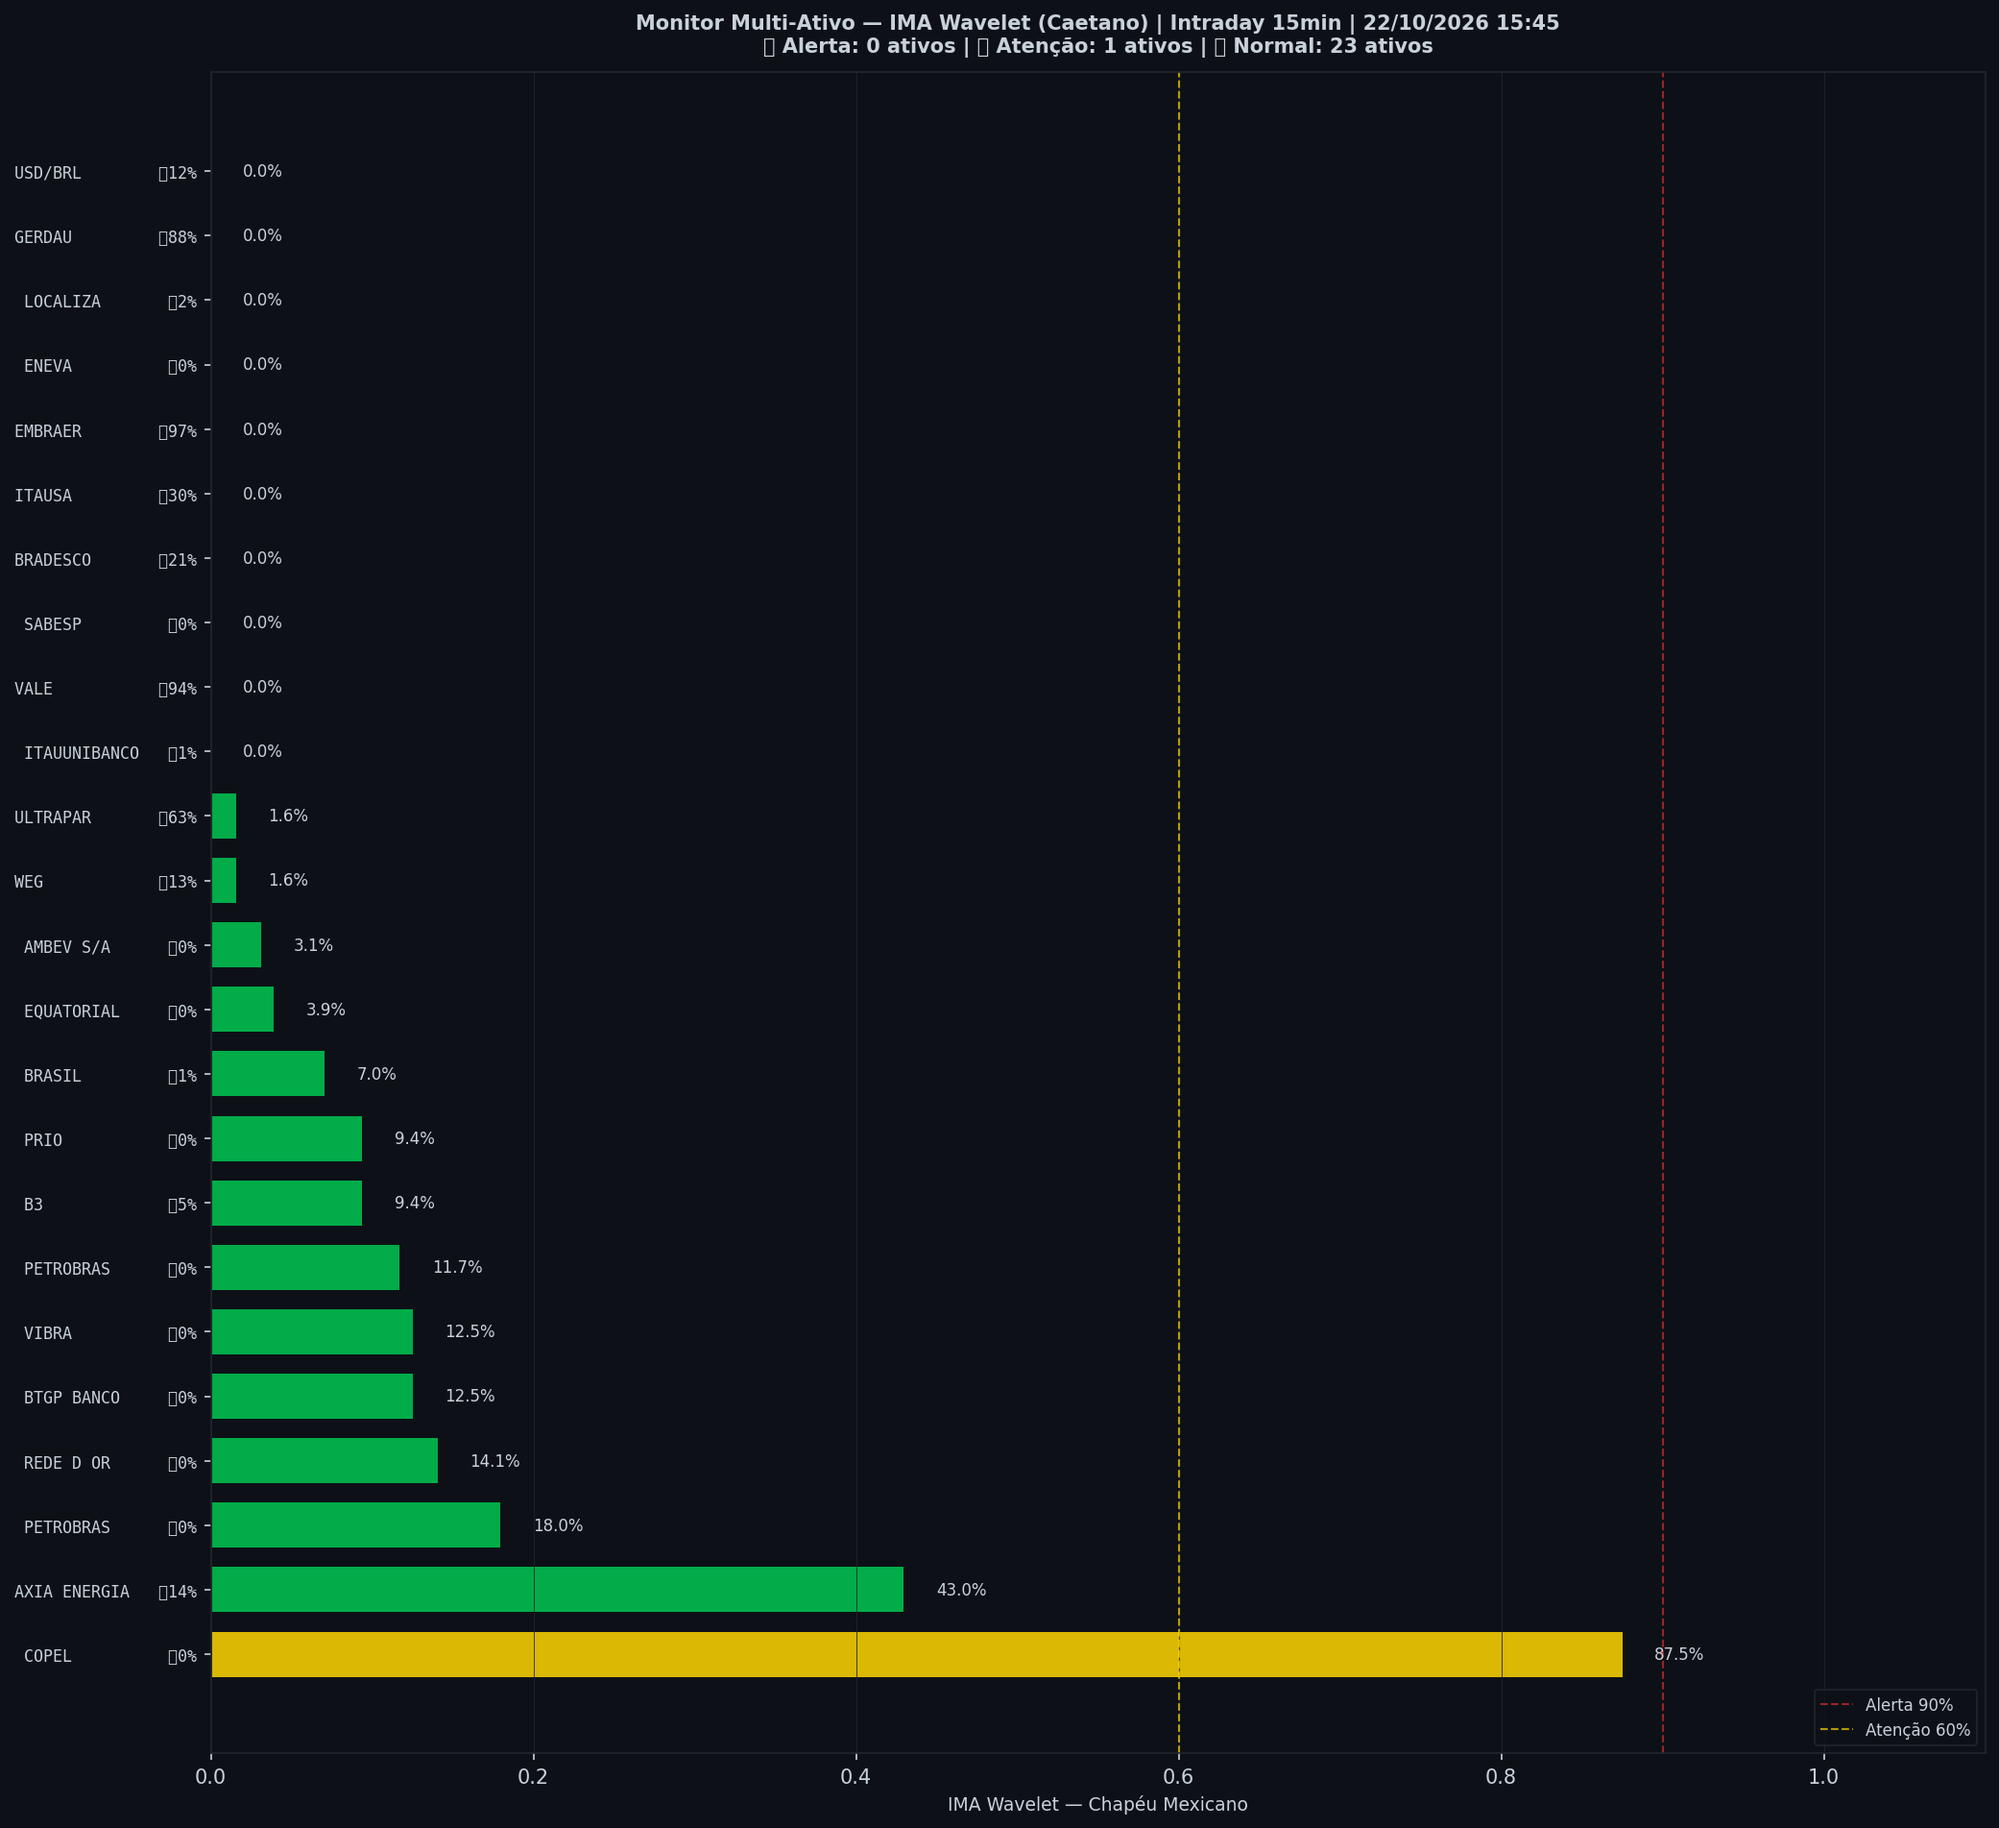
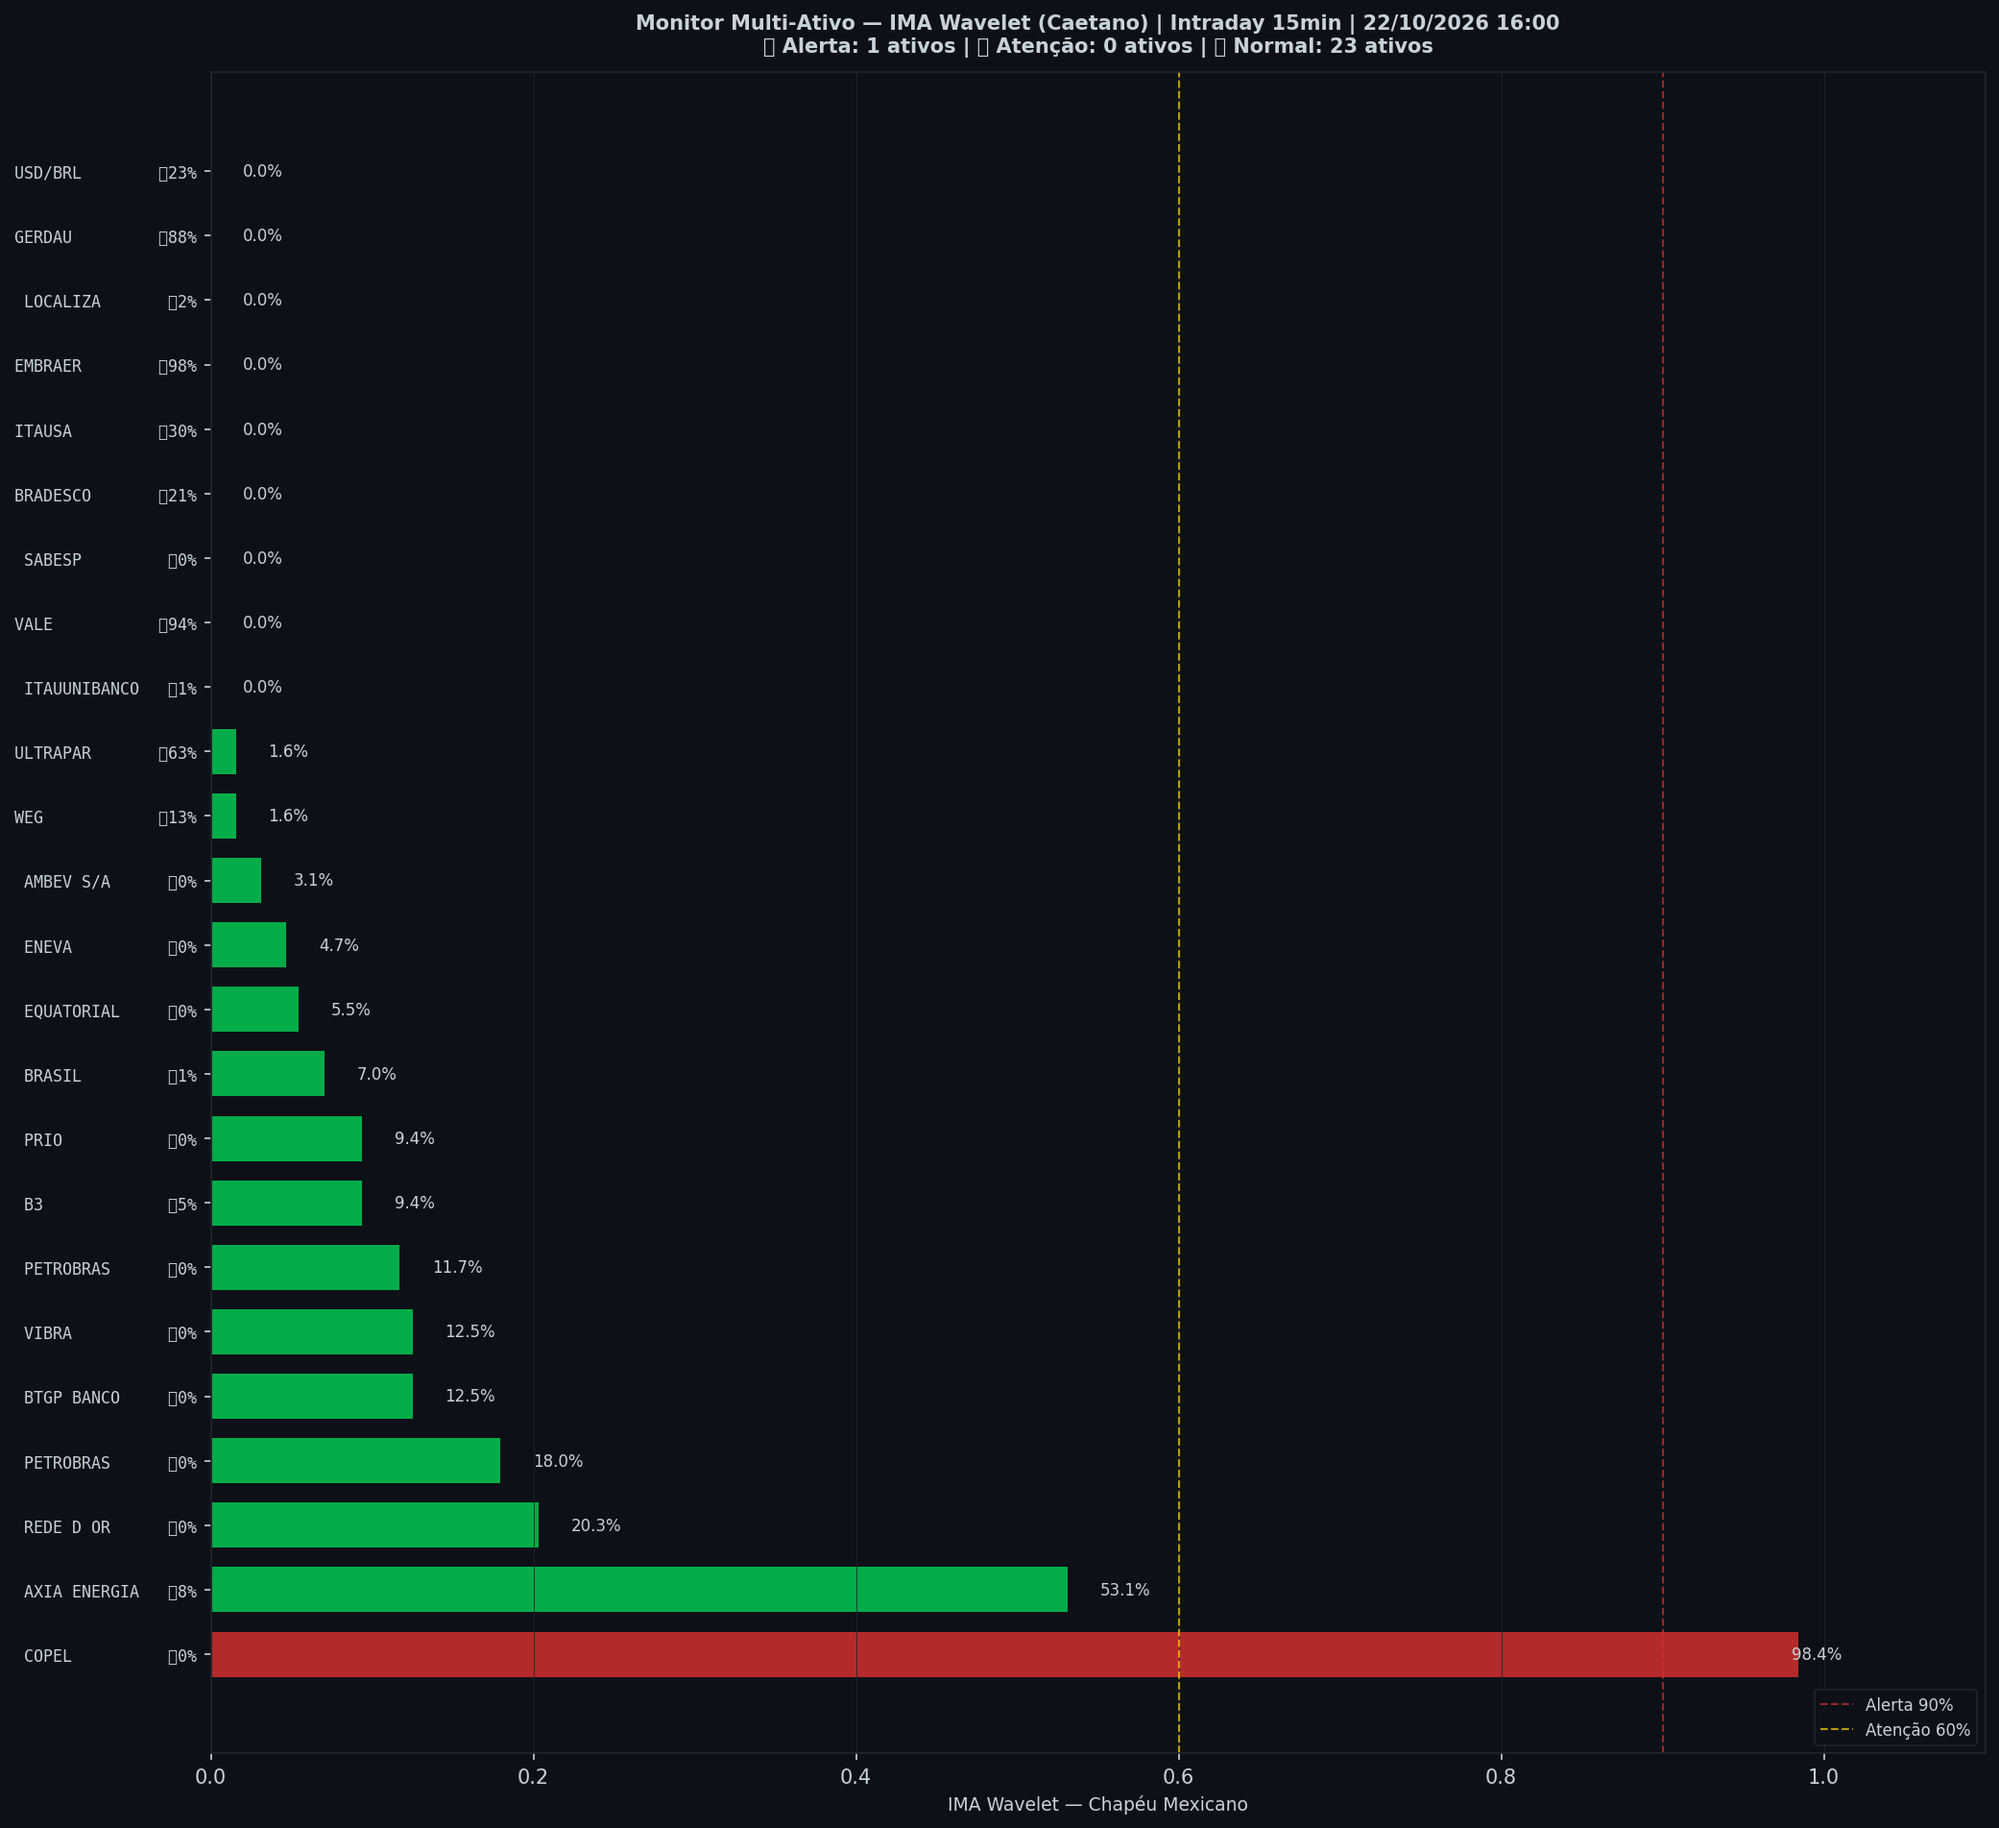
🤖 Auto: Sinal 22/10/2026 16:00

diff --git a/content/intraday/2026-10-22.md b/content/intraday/2026-10-22.md
@@ -1,30 +1,31 @@
 ---
-title: "🟢 Intraday 22/10/2026 15:30 BRT — VERDE"
+title: "🟢 Intraday 22/10/2026 15:45 BRT — VERDE"
 date: 2026-10-22
 tags: [intraday]
 ---
 
 
 
-> [!success] Sinal de Crise · Intraday 15 min (22/10 15:30): 🟢 **VERDE** — Risco 1% · ＝ +0 p.p. vs leitura anterior
+> [!success] Sinal de Crise · Intraday 15 min (22/10 15:45): 🟢 **VERDE** — Risco 0% · ▼ -1 p.p. vs leitura anterior
 > `░░░░░░░░░░░░░░░░░░░░`
 > Preço na faixa normal em torno da tendência.
 
 
-
+> [!warning] ⚠ Nível alto agora — Sinal de Crise · Intraday 15 min (22/10 15:45)
+> - 🔵 **ζ Fundo 73%** — preço esticado abaixo da tendência
 
 > [!note] 🧭 Sinal de Crise · Viés do diário (21/10): 🟡 **Preço esticado acima da tendência**
 > 👉 não aumentar posição, subir stop, realizar parcial
 >
 > *Estatística de 26 anos, não recomendação. [Como usar](../metodologia#3-como-usar-na-prática).*
 
-| Indicador — Sinal de Crise · Intraday 15 min (22/10 15:30) | Valor |
+| Indicador — Sinal de Crise · Intraday 15 min (22/10 15:45) | Valor |
 |---|---|
-| 🔴 ζ Topo — preço esticado acima da tendência | **1%** |
-| 🔵 ζ Fundo — preço esticado abaixo da tendência | 53% |
+| 🔴 ζ Topo — preço esticado acima da tendência | **0%** |
+| 🔵 ζ Fundo — preço esticado abaixo da tendência | 🔵 **73%** |
 | 🫧 LPPL bolha — alta super-exponencial (risco de crash) | 0% |
 | 🫧 LPPL antibolha — queda super-exponencial (risco de repique) | 0% |
-| 📊 Ibovespa | 204.337 pts |
+| 📊 Ibovespa | 204.146 pts |
 
 ![Gráfico do sinal](../graficos/sinal_intraday.png)
 
@@ -32,6 +33,7 @@ tags: [intraday]
 
 | Data | Zona | Evento | Risco | ζ Topo | ζ Fundo | LPPL |
 |---|---|---|---|---|---|---|
+| 2026-10-22 15:45 | 🟢 VERDE |  | **0%** | 0% | 🔵 **73%** | 0% |
 | 2026-10-22 15:30 | 🟢 VERDE |  | **1%** | 1% | 53% | 0% |
 | 2026-10-22 15:15 | 🟢 VERDE |  | **1%** | 1% | 🔵 **61%** | 0% |
 | 2026-10-22 15:00 | 🟢 VERDE |  | **0%** | 0% | 59% | 0% |
@@ -61,49 +63,48 @@ tags: [intraday]
 | 2026-10-21 16:00 | 🟢 VERDE |  | **0%** | 0% | 30% | 0% |
 | 2026-10-21 15:45 | 🟢 VERDE |  | **0%** | 0% | 31% | 0% |
 | 2026-10-21 15:30 | 🟢 VERDE |  | **0%** | 0% | 32% | 0% |
-| 2026-10-21 15:15 | 🟢 VERDE |  | **0%** | 0% | 32% | 0% |
 
 <small>Destaques: 🟡 ≥ 60% · 🔴 ≥ 90% (Risco e ζ Topo) · 🔵 ≥ 60% · 🔪 ≥ 90% (ζ Fundo) · 🫧 ≥ 30% · 🫧🔴 ≥ 50% (LPPL)</small>
 
 ## Monitor Multi-Ativo
 
-**4% dos ativos em tensão** (0🔴 1🟡) · **4 com ζ Fundo alto** — quanto mais ativos disparam juntos, mais confiável o sinal.
+**4% dos ativos em tensão** (1🔴 0🟡) · **4 com ζ Fundo alto** — quanto mais ativos disparam juntos, mais confiável o sinal.
 
 > [!danger] Em destaque no multi-ativo
-> 🔪 **EMBRAER** ζ Fundo 97% · 🔪 **VALE** ζ Fundo 94% · 🟡 **COPEL** ζ Topo 88% · 🔵 **GERDAU** ζ Fundo 88% · 🔵 **ULTRAPAR** ζ Fundo 63%
+> 🔴 **COPEL** ζ Topo 98% · 🔪 **EMBRAER** ζ Fundo 98% · 🔪 **VALE** ζ Fundo 94% · 🔵 **GERDAU** ζ Fundo 88% · 🔵 **ULTRAPAR** ζ Fundo 63%
 
 | Zona | Ativo | Setor | ζ Topo | ζ Fundo |
 |---|---|---|---|---|
-| 🟢 | **EMBRAER** | Outros | 0.0% | 🔪 **96.9%** |
+| 🔴 | **COPEL** | Energia | 🔴 **98.4%** | 0.0% |
+| 🟢 | **EMBRAER** | Outros | 0.0% | 🔪 **97.7%** |
 | 🟢 | **VALE** | Mineração | 0.0% | 🔪 **93.8%** |
-| 🟡 | **COPEL** | Energia | 🟡 **87.5%** | 0.0% |
 | 🟢 | **GERDAU** | Siderurgia | 0.0% | 🔵 **87.5%** |
 | 🟢 | **ULTRAPAR** | Outros | 1.6% | 🔵 **63.3%** |
-| 🟢 | **AXIA ENERGIA** | Energia | 43.0% | 14.1% |
+| 🟢 | **AXIA ENERGIA** | Energia | 53.1% | 7.8% |
 | 🟢 | **ITAUSA** | Financeiro | 0.0% | 29.7% |
+| 🟢 | **USD/BRL** | Câmbio | 0.0% | 22.7% |
 | 🟢 | **BRADESCO** | Financeiro | 0.0% | 21.1% |
+| 🟢 | **REDE D OR** | Saúde | 20.3% | 0.0% |
 | 🟢 | **PETROBRAS** | Petróleo | 18.0% | 0.0% |
-| 🟢 | **REDE D OR** | Saúde | 14.1% | 0.0% |
 | 🟢 | **WEG** | Industrial | 1.6% | 13.3% |
 | 🟢 | **BTGP BANCO** | Financeiro | 12.5% | 0.0% |
 | 🟢 | **VIBRA** | Energia | 12.5% | 0.0% |
-| 🟢 | **USD/BRL** | Câmbio | 0.0% | 12.5% |
 | 🟢 | **PETROBRAS** | Petróleo | 11.7% | 0.0% |
 | 🟢 | **B3** | Financeiro | 9.4% | 5.5% |
 | 🟢 | **PRIO** | Petróleo | 9.4% | 0.0% |
 | 🟢 | **BRASIL** | Financeiro | 7.0% | 0.8% |
-| 🟢 | **EQUATORIAL** | Energia | 3.9% | 0.0% |
+| 🟢 | **EQUATORIAL** | Energia | 5.5% | 0.0% |
+| 🟢 | **ENEVA** | Energia | 4.7% | 0.0% |
 | 🟢 | **AMBEV S/A** | Consumo | 3.1% | 0.0% |
 | 🟢 | **LOCALIZA** | Aluguel | 0.0% | 2.3% |
 | 🟢 | **ITAUUNIBANCO** | Financeiro | 0.0% | 0.8% |
 | 🟢 | **SABESP** | Saneamento | 0.0% | 0.0% |
-| 🟢 | **ENEVA** | Energia | 0.0% | 0.0% |
 
 <small>Destaques: 🟡 ≥ 60% · 🔴 ≥ 90% (Risco e ζ Topo) · 🔵 ≥ 60% · 🔪 ≥ 90% (ζ Fundo) · 🫧 ≥ 30% · 🫧🔴 ≥ 50% (LPPL)</small>
 
 ![Monitor multi-ativo](../graficos/multi_intraday.png)
 
-*Página atualizada em 22/10/2026 15:47 BRT (leitura da barra de 2026-10-22 15:30 BRT).*
+*Página atualizada em 22/10/2026 16:00 BRT (leitura da barra de 2026-10-22 15:45 BRT).*
 
 > [!info]- Como interpretar (clique para expandir)
 > - **ζ Topo**: fração dos coeficientes wavelet (Chapéu Mexicano, Caetano & Yoneyama 2009) acima de +0,8σ na faixa mais recente. Na ponta da série isso acontece quando o preço termina **esticado acima da tendência** em muitas escalas — euforia/topo. ζ=0,90 é o limiar de Caetano: quedas que partiram desse padrão foram mais fundas. **É risco de reversão, não data do crash.**

diff --git a/content/index.md b/content/index.md
@@ -8,34 +8,35 @@ tags: [home]
 
 Monitoramento diário e intraday do Ibovespa — **IMA Wavelet** (Prof. Marco Antonio Leonel Caetano, ITA/INSPER) + **LPPL DS-Confidence** (Prof. Didier Sornette, ETH-Zurich).
 
-*Última atualização: 22/10/2026 15:47 BRT · ^BVSP · Intraday 15min · v5.3*
+*Última atualização: 22/10/2026 16:00 BRT · ^BVSP · Intraday 15min · v5.3*
 
 > [!warning] 🔥 Sinais de Topo e Fundo · Mensal — sinal forte em formação (confirma no fechamento do candle mensal)
 > - 🔴 Mensal · TOPO · **RSI75+MV** — RSI≥75 e MACD-V≥130
 >
 > [Ver os sinais](sinais-topo-fundo/)
 
-> [!success] Sinal de Crise · Intraday 15 min (22/10 15:30): 🟢 **VERDE** — Risco 1% · ＝ +0 p.p. vs leitura anterior
+> [!success] Sinal de Crise · Intraday 15 min (22/10 15:45): 🟢 **VERDE** — Risco 0% · ▼ -1 p.p. vs leitura anterior
 > `░░░░░░░░░░░░░░░░░░░░`
 > Preço na faixa normal em torno da tendência.
 
 
-
+> [!warning] ⚠ Nível alto agora — Sinal de Crise · Intraday 15 min (22/10 15:45)
+> - 🔵 **ζ Fundo 73%** — preço esticado abaixo da tendência
 
 > [!note] 🧭 Sinal de Crise · Viés do diário (21/10): 🟡 **Preço esticado acima da tendência**
 > 👉 não aumentar posição, subir stop, realizar parcial
 >
 > *Estatística de 26 anos, não recomendação. [Como usar](metodologia#3-como-usar-na-prática).*
 
-| Indicador — Sinal de Crise · Intraday 15 min (22/10 15:30) | Valor |
+| Indicador — Sinal de Crise · Intraday 15 min (22/10 15:45) | Valor |
 |---|---|
-| 🔴 ζ Topo — preço esticado acima da tendência | **1%** |
-| 🔵 ζ Fundo — preço esticado abaixo da tendência | 53% |
+| 🔴 ζ Topo — preço esticado acima da tendência | **0%** |
+| 🔵 ζ Fundo — preço esticado abaixo da tendência | 🔵 **73%** |
 | 🫧 LPPL bolha — alta super-exponencial (risco de crash) | 0% |
 | 🫧 LPPL antibolha — queda super-exponencial (risco de repique) | 0% |
-| 📊 Ibovespa | 204.337 pts |
+| 📊 Ibovespa | 204.146 pts |
 
-**Multi-ativo:** 4% em tensão (0🔴 1🟡 de 24 ativos)
+**Multi-ativo:** 4% em tensão (1🔴 0🟡 de 24 ativos)
 
 
 > [!tip]- O que 26 anos de dados mostram
@@ -45,7 +46,7 @@ Monitoramento diário e intraday do Ibovespa — **IMA Wavelet** (Prof. Marco An
 
 | Data | Zona | Risco | ζ Topo | ζ Fundo | LPPL |
 |---|---|---|---|---|---|
-| [22 Oct 2026](intraday/2026-10-22) | 🟢 VERDE | **1%** | 1% | 53% | 0% |
+| [22 Oct 2026](intraday/2026-10-22) | 🟢 VERDE | **0%** | 0% | 🔵 **73%** | 0% |
 | [21 Oct 2026](intraday/2026-10-21) | 🟢 VERDE | **0%** | 0% | 19% | 0% |
 
 <small>Destaques: 🟡 ≥ 60% · 🔴 ≥ 90% (Risco e ζ Topo) · 🔵 ≥ 60% · 🔪 ≥ 90% (ζ Fundo) · 🫧 ≥ 30% · 🫧🔴 ≥ 50% (LPPL)</small>

diff --git a/content/historico.md b/content/historico.md
@@ -7,6 +7,7 @@ tags: [historico]
 
 | Data | Modo | Zona | Risco | IMA | LPPL |
 |---|---|---|---|---|---|
+| 2026-10-22 15:45 | intraday | 🟢 VERDE | 0% | 0% | 0% |
 | 2026-10-22 15:30 | intraday | 🟢 VERDE | 1% | 1% | 0% |
 | 2026-10-22 15:15 | intraday | 🟢 VERDE | 1% | 1% | 0% |
 | 2026-10-22 15:00 | intraday | 🟢 VERDE | 0% | 0% | 0% |
